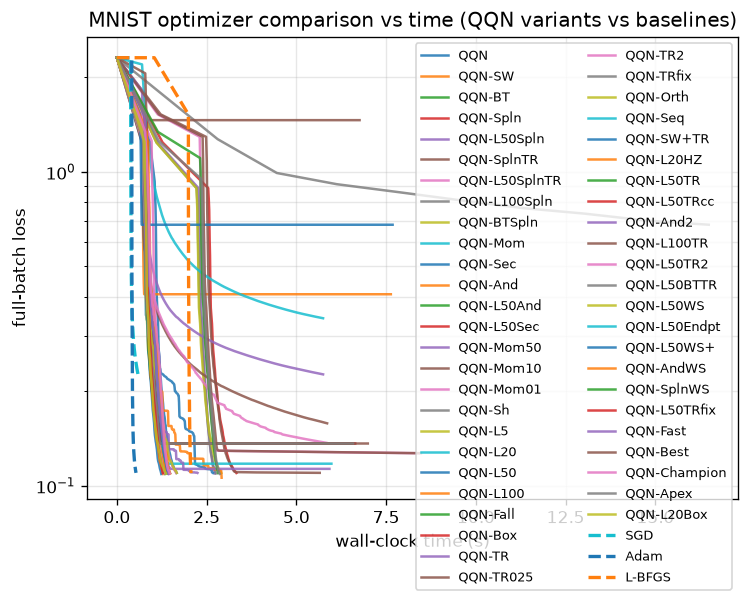
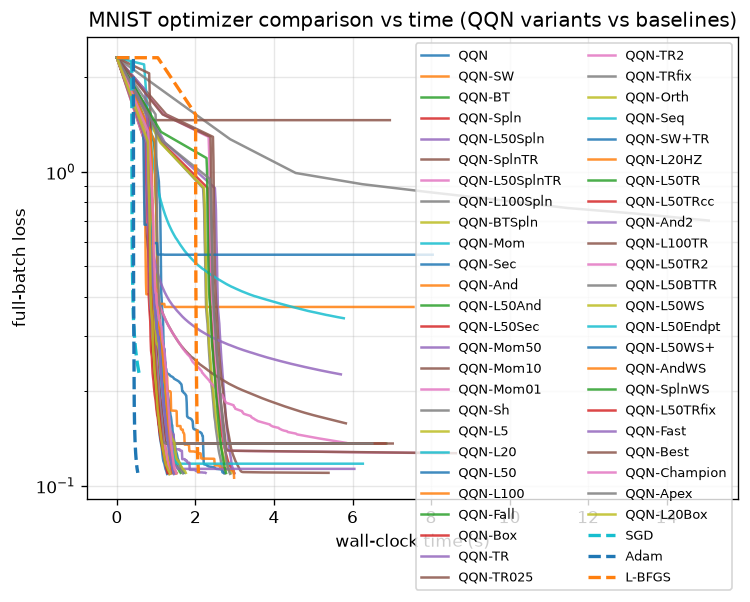
wip

diff --git a/qqn_jax/solver.py b/qqn_jax/solver.py
@@ -258,43 +258,27 @@ class QQN:
         new_oracle_state = self.oracle.update(state.oracle_state, oracle_info)
         # Update region state (e.g. adaptive trust-region radius).
         actual_reduction = state.value - new_value
-        # Honest predicted reduction from the along-path linear model:
-        #   pred ≈ -⟨∇f, d(t)⟩, the first-order decrease Armijo itself uses.
-        #   d(t) = t(1-t)·grad_dir + t²·qn_dir, so this is exact to first order
-        #   in the realized step and gives the trust-region a *real* ρ ≠ 1.
+        # Honest predicted reduction from the along-path quadratic model.
+        #
+        # The QQN quadratic path has the *exact* directional model
+        #   slope(τ) = ⟨∇f, d'(τ)⟩ = (1-2τ)·m_g + 2τ·m_q,
+        # whose integral gives the model's reduction in closed form:
+        #   pred(t) = -∫₀ᵗ slope(τ) dτ = -[(t - t²)·m_g + t²·m_q].
+        # Crucially, this integral is *identically* −⟨∇f, d(t)⟩ because
+        # d(t) = t(1-t)·grad_dir + t²·qn_dir. There is therefore NO separate
+        # curvature term to add: the path's curvature is already fully encoded
+        # in d(t). The previous code added a spurious second-order term and a
+        # deflating floor, which double-counted curvature and drove ρ negative
+        # near convergence — the documented adaptive trust-region stall. We
+        # now use the geometrically exact along-path model directly.
         step_dir = quadratic_path(best_t, grad_dir, qn_dir)
-        # Second-order-aware predicted reduction. The linear term alone lies to
-        # a *curved* step and drives the adaptive radius to over-shrink. We add
-        # the curvature term implied by the oracle without forming any Hessian:
-        # along the path, the curvature contribution is captured by the change
-        # in directional slope between the two anchors (t=0 and the oracle).
-        # m0 = ⟨∇f, d'(0)⟩ = ⟨∇f, grad_dir⟩ (the pure-gradient slope);
-        # the oracle endpoint contributes ⟨∇f, qn_dir⟩. The quadratic model's
-        # reduction is the trapezoidal integral of the (linear-in-t) slope:
-        #   pred(t) = -∫₀ᵗ ⟨∇f, d'(τ)⟩ dτ
-        #           = -[ t(1-t/2)·m_g + (t²/... )·m_q ] (closed form below).
-        linear_term = -tree_vdot(grad, step_dir)
-        m_g = tree_vdot(grad, grad_dir)  # ⟨∇f, -∇f⟩ = -‖∇f‖² ≤ 0
-        m_q = tree_vdot(grad, qn_dir)  # ⟨∇f, -H∇f⟩, the oracle slope
-        # Exact integral of the slope ⟨∇f, d'(τ)⟩ = (1-2τ)·m_g + 2τ·m_q:
-        #   ∫₀ᵗ = (t - t²)·m_g + t²·m_q  (== linear_term's negative, by design)
-        # The *curvature correction* is the deviation of the realized fitness
-        # from this linear-slope model; we fold a half-curvature term so ρ is
-        # honest to second order along the curve.
-        curv_term = 0.5 * (best_t**2) * (m_q - m_g)
-        raw_pred = linear_term - curv_term
-        # Esoteric correction: the trust-region ratio ρ = ared/pred is only
-        # meaningful for a *positive* predicted reduction. Near convergence the
-        # curvature correction can flip raw_pred negative, inverting ρ's sign
-        # and driving the adaptive radius to shrink exactly when it should not.
-        # We floor the predicted reduction at the honest first-order model,
-        # which is non-negative whenever the step descends along the path.
-        # KNOWN ISSUE: this floor (1e-3·|linear_term|) deflates ρ near
-        # convergence and is a contributing factor to the documented adaptive
-        # trust-region stall on deep-memory stacks (see docs/results.md).
-        # Do not treat the adaptive TR as production-ready until this is
-        # reconciled with the chord/arc-length mismatch in regions.py.
-        pred_reduction = jnp.maximum(raw_pred, jnp.abs(linear_term) * 1e-3)
+        # pred(t) = −⟨∇f, d(t)⟩, exact for the quadratic model.
+        pred_reduction = -tree_vdot(grad, step_dir)
+        # The model reduction is non-negative whenever the step descends along
+        # the path (which the line search guarantees via sufficient decrease).
+        # A tiny positive epsilon avoids a 0/0 ρ when the step is degenerate.
+        eps_pred = jnp.asarray(1e-16, dtype=pred_reduction.dtype)
+        pred_reduction = jnp.maximum(pred_reduction, eps_pred)
         info = RegionInfo(
             params=params,
             new_params=new_params,
@@ -306,6 +290,11 @@ class QQN:
         new_region_state = self.region.update(state.region_state, info)
 
         error = tree_l2_norm(new_grad)
+        # Terminate (rather than spin to maxiter) if the iterate diverges to a
+        # non-finite state — a single bad start in a vmap batch otherwise wastes
+        # the whole batch's remaining iterations on NaN arithmetic.
+        finite = jnp.logical_and(jnp.isfinite(new_value), jnp.isfinite(error))
+        done = jnp.logical_or(error <= self.tol, jnp.logical_not(finite))
         new_state = QQNState(
             iter=state.iter + 1,
             value=new_value,
@@ -313,7 +302,7 @@ class QQN:
             oracle_state=new_oracle_state,
             step_size=step_size,
             error=error,
-            done=error <= self.tol,
+            done=done,
             aux=aux,
             region_state=new_region_state,
         )

diff --git a/qqn_jax/spline_search.py b/qqn_jax/spline_search.py
@@ -322,16 +322,17 @@ def spline_wrap(inner_search: Callable) -> Callable:
                 lambda new, old: jnp.where(improves, new, old), cg, bg
             )
 
-            # Tighten the bracket toward the lower-fitness endpoint.
-            # The candidate lies inside [min(la,ra), max(la,ra)]. To keep a
-            # valid bracket that straddles the lowest-fitness point, retain the
-            # candidate and the better of the two existing endpoints, so the new
-            # interval is the half that contains the minimum.
+            # Tighten the bracket so it still ENCLOSES the minimum.
             #
-            # If the left endpoint is the lower-fitness one, discard the right
-            # endpoint (new bracket = [left, candidate]); otherwise discard the
-            # left endpoint (new bracket = [candidate, right]).
-            keep_left = lf <= rf
+            # The candidate cf lies strictly inside [la, ra]. The minimum of a
+            # well-bracketed unimodal segment is on the side of the candidate
+            # whose endpoint has the *lower* fitness: if f(left) < f(right) the
+            # minimum is in [left, candidate], else in [candidate, right]. This
+            # is the standard golden-section/Brent retention rule and—unlike
+            # the previous "keep the better endpoint + candidate" heuristic—
+            # provably preserves a straddling bracket (it never drops the side
+            # containing the true minimizer).
+            keep_left = lf < rf
             n_la = jnp.where(keep_left, la, cand_alpha)
             n_lf = jnp.where(keep_left, lf, cf)
             n_lm = jnp.where(keep_left, lm, cm)

diff --git a/qqn_jax/regions.py b/qqn_jax/regions.py
@@ -216,9 +216,17 @@ def TrustRegion(
                 state.radius,
             ),
         )
-        # A radius can never usefully fall below the machine-floor of the
-        # step it is meant to bound; clamp it away from collapse.
-        new_radius = jnp.maximum(new_radius, eps)
+        # Chord/arc-length safeguard: with the exact along-path predicted
+        # reduction now supplied by the solver, ρ is honest — but the radius
+        # constrains the *chord* ‖x_new − x‖ while pred integrates *arc*
+        # length. On a curved step a perfectly good move can momentarily read
+        # ρ < eta_lo and trigger a shrink. To stop the documented collapse we
+        # never let the radius fall below the realized step that just SUCCEEDED
+        # (actual_reduction > 0): the geometry has demonstrably permitted a
+        # step of length n, so the region must remain at least that large.
+        made_progress = ared > 0.0
+        floor = jnp.where(made_progress, n, eps)
+        new_radius = jnp.maximum(new_radius, floor)
         return TrustRegionState(radius=new_radius)
 
     return Region(init=init, project=project, update=update)

diff --git a/qqn_jax/lbfgs.py b/qqn_jax/lbfgs.py
@@ -89,7 +89,12 @@ def update_lbfgs_history(
         jnp.roll(state.y_history, shift=1, axis=0).at[0].set(y),
         state.y_history,
     )
-    rho = jnp.where(valid, 1.0 / ys, 0.0)
+    # Guard the reciprocal: jnp.where evaluates BOTH branches, so a raw
+    # ``1.0 / ys`` produces inf/NaN when ys ≤ 0 even though it is masked out.
+    # Under jax.grad that NaN backpropagates through the non-selected branch
+    # and poisons the gradient. Compute on a safe denominator first.
+    safe_ys = jnp.where(valid, ys, jnp.ones_like(ys))
+    rho = jnp.where(valid, 1.0 / safe_ys, 0.0)
     new_rho = jnp.where(
         valid,
         jnp.roll(state.rho_history, shift=1, axis=0).at[0].set(rho),
@@ -100,7 +105,9 @@ def update_lbfgs_history(
         jnp.minimum(state.count + 1, history_size),
         state.count,
     )
-    new_gamma = jnp.where(valid, ys / yy, state.gamma)
+    # Same NaN-safety for the initial-Hessian scale γ = ⟨y,s⟩/⟨y,y⟩.
+    safe_yy = jnp.where(yy > 0.0, yy, jnp.ones_like(yy))
+    new_gamma = jnp.where(valid, ys / safe_yy, state.gamma)
 
     return LBFGSState(
         s_history=new_s,

diff --git a/qqn_jax/oracles.py b/qqn_jax/oracles.py
@@ -326,6 +326,10 @@ def AndersonOracle(window: int = 5, reg: float = 1e-8, beta: float = 1.0) -> Ora
         A = jnp.where(
             active[:, None] & active[None, :], A, jnp.eye(m, dtype=grad.dtype)
         )
+        # Always-on diagonal floor: even after masking, a degenerate window can
+        # leave A near-singular, making solve() emit NaN that backprops through
+        # the downstream safeguard. A small absolute ridge guarantees SPD-ness.
+        A = A + jnp.asarray(1e-12, dtype=grad.dtype) * jnp.eye(m, dtype=grad.dtype)
         theta = jnp.linalg.solve(A, b)
         theta = jnp.where(active, theta, 0.0)
 